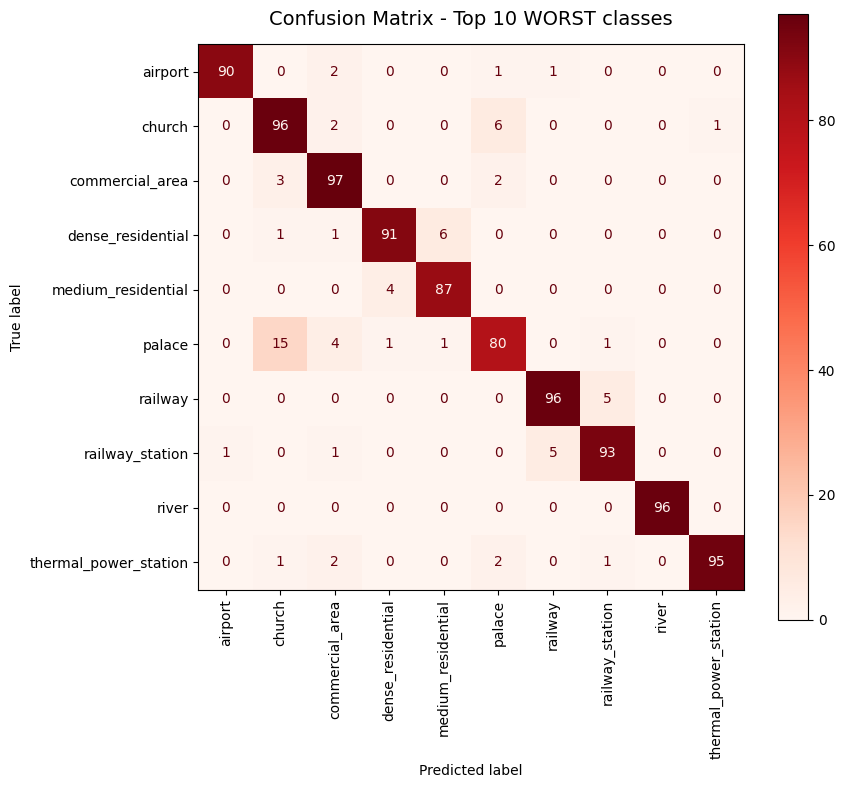
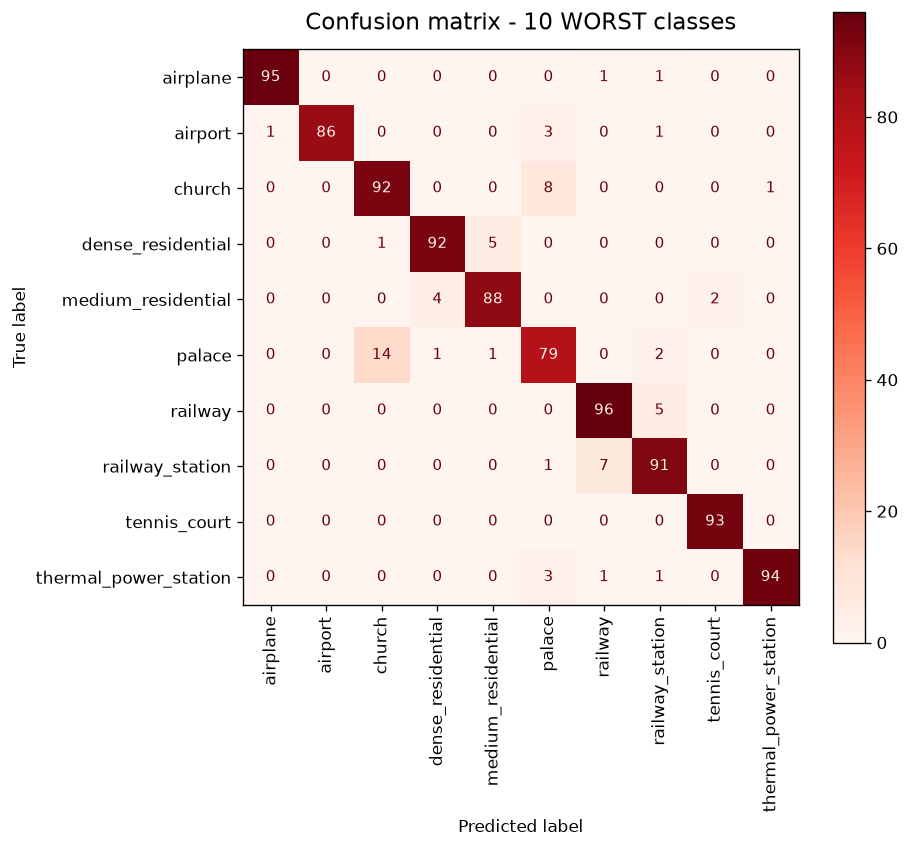
Update results to the retrained model (94.4% test accuracy)
Re-evaluated the retrained model on the same 4,725-image test split:
metrics, per-class report, confusion matrices and sample predictions now
match the model that will be published. Also hides the duplicate heading
above the demo's top-5 chart.

diff --git a/demo/app.py b/demo/app.py
@@ -19,8 +19,8 @@ GITHUB_URL = "https://github.com/esammostafa9-cloud/resisc45-scene-classificatio
 UNSURE_THRESHOLD = 0.5
 
 METRICS = {
-    "Test accuracy": "94.6%",
-    "Macro F1": "0.946",
+    "Test accuracy": "94.4%",
+    "Macro F1": "0.944",
     "Classes": "45",
     "Test images": "4,725",
 }
@@ -122,7 +122,7 @@ def build_demo(classifier: Classifier) -> gr.Blocks:
                     gr.Examples(examples=examples, inputs=image, label="Try an example")
             with gr.Column(scale=4):
                 card = gr.HTML(EMPTY_CARD, padding=False)
-                scores = gr.Label(num_top_classes=5, label="Top-5 predictions")
+                scores = gr.Label(num_top_classes=5, label="Top-5 predictions", show_heading=False)
 
         with gr.Accordion("About this model", open=False):
             gr.Markdown(

diff --git a/tests/test_serving.py b/tests/test_serving.py
@@ -168,6 +168,6 @@ def test_push_model_uploads_model_names_and_card(model_dir, monkeypatch):
 
 def test_model_card_includes_real_metrics():
     rows = hub._metrics_rows(REPO_ROOT / "results" / "test_metrics.json")
-    assert "| Accuracy | 0.946 |" in rows
+    assert "| Accuracy | 0.9441 |" in rows
     card = hub.MODEL_CARD.format(github="g", repo="r", metrics_rows=rows)
     assert card.startswith("---\nlicense: mit")

diff --git a/README.md b/README.md
@@ -11,14 +11,14 @@ Classifies aerial and satellite images into **45 land-use scene categories** usi
 
 | Metric (held-out test set, 4,725 images) | Score |
 |---|---|
-| **Accuracy** | **94.60%** |
-| Macro precision | 0.9469 |
-| Macro recall | 0.9460 |
-| Macro F1 | 0.9460 |
-| Test loss | 0.2879 |
+| **Accuracy** | **94.41%** |
+| Macro precision | 0.9453 |
+| Macro recall | 0.9441 |
+| Macro F1 | 0.9440 |
+| Test loss | 0.2987 |
 
 <p align="center">
-  <img src="reports/figures/top5_confidence.png" width="520" alt="Test images with their top-5 predicted classes">
+  <img src="reports/figures/sample_predictions.png" width="520" alt="Test images with their top-5 predicted classes">
 </p>
 
 ---
@@ -87,20 +87,23 @@ Full table: [`results/classification_report.csv`](results/classification_report.
 
 | Strongest classes (F1) | | Weakest classes (F1) | |
 |---|---|---|---|
-| chaparral | 0.995 | palace | 0.796 |
-| ship | 0.991 | medium_residential | 0.845 |
-| snowberg | 0.991 | church | 0.857 |
-| harbor | 0.990 | commercial_area | 0.894 |
-| ground_track_field | 0.990 | railway | 0.897 |
+| chaparral | 0.995 | palace | 0.774 |
+| ship | 0.995 | church | 0.848 |
+| snowberg | 0.991 | medium_residential | 0.867 |
+| harbor | 0.986 | railway_station | 0.875 |
+| circular_farmland | 0.986 | commercial_area | 0.892 |
 
 Errors are concentrated in classes that genuinely look alike from above. The weakest classes
 are confused with each other:
 
 ![Confusion matrix of the 10 weakest classes](reports/figures/confusion_matrix_worst10.png)
 
-- **palace ↔ church**: 15 palaces were predicted as church (both are large ornate buildings).
+- **palace ↔ church**: 14 palaces were predicted as church and 8 churches as palace (both are
+  large ornate buildings). This is the single biggest source of error.
+- **railway ↔ railway_station**: 7 + 5 swaps, both being linear rail scenes.
 - **dense ↔ medium residential**: housing density shades gradually from one class to the other.
-- **railway ↔ railway_station**: both are linear rail scenes.
+
+Overall, 264 of the 4,725 test images are misclassified.
 
 The full 45×45 matrix and the 10 best classes are in [`reports/figures/`](reports/figures).
 

diff --git a/demo/README.md b/demo/README.md
@@ -17,7 +17,7 @@ short_description: Classify satellite images into 45 land-use scenes
 Upload an aerial or satellite image and the model predicts which of 45 land-use scene
 categories it shows (airport, harbor, farmland, residential areas, and more).
 
-- **Model:** ResNet-50 fine-tuned on NWPU-RESISC45, with 94.6% test accuracy
+- **Model:** ResNet-50 fine-tuned on NWPU-RESISC45, with 94.4% test accuracy
 - **Code, training and evaluation:** https://github.com/esammostafa9-cloud/resisc45-scene-classification
 
 The example images come from the held-out test split of NWPU-RESISC45 (Cheng et al., 2017).
